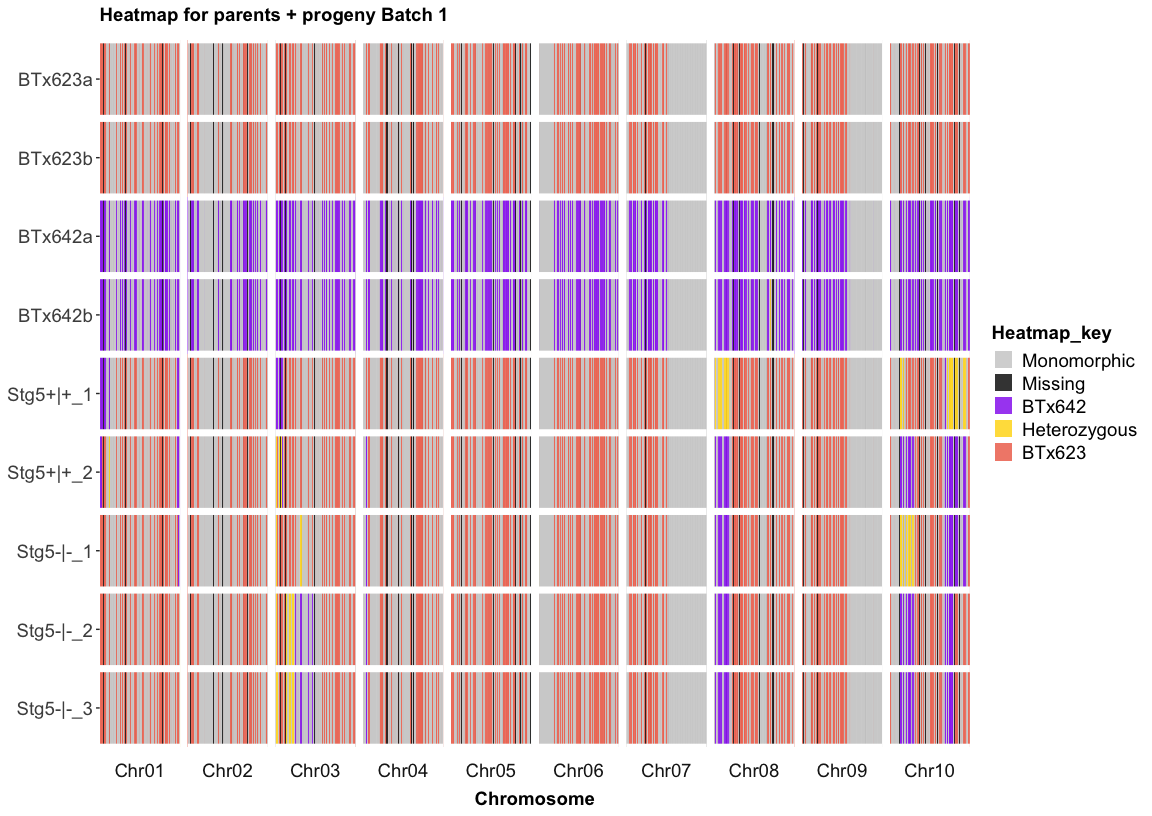
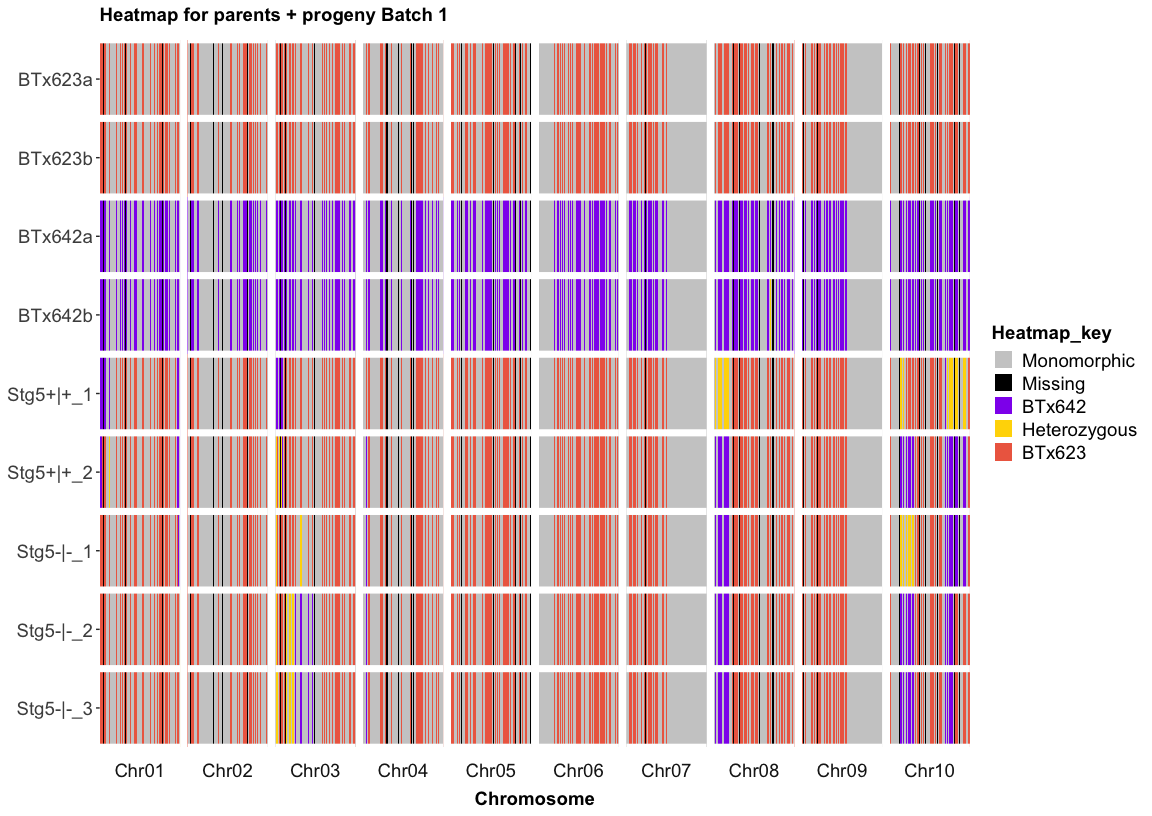
kasp_function updates

Changed region(s): [[0.0625, 0.0306, 0.5938, 0.9191], [0.625, 0.0306, 0.75, 0.9191], [0.7812, 0.0306, 0.875, 0.9191]]

diff --git a/README.md b/README.md
@@ -914,8 +914,8 @@ nucleotides to represent homozygous SNP calls.
 
 To exemplify the steps for creating heatmap, we will use a mid-density
 marker data for three groups of near-isogenic lines (NILs) and their
-parents. The NILs and their parents were genotyped using the Agriplex
-platform. Each NIL group was genotyped using 2421 markers.
+parents (Table 4). The NILs and their parents were genotyped using the
+Agriplex platform. Each NIL group was genotyped using 2421 markers.
 
 The imported data frame has the markers as columns and genotyped samples
 as rows. It comes with some meta data about the samples. Marker names
@@ -1171,9 +1171,9 @@ A
 </table>
 
 To create a heatmap that compares the genetic background of parents and
-NILs across all marker, we need to process the raw Agriplex data into a
-numeric format for plotting. The panGB package has customizable data
-wrangling functions for KASP, Agriplex, and DArTag data.
+NILs across all markers, we need to first process the raw Agriplex data
+into a numeric format. The panGB package has customizable data wrangling
+functions for KASP, Agriplex, and DArTag data.
 
 Since our imported Agriplex data has informative SNP IDs, we can use the
 `parse_marker_ns()` function to generate a map file, which can be passed
@@ -1181,10 +1181,17 @@ to the `proc_kasp()` function to order the SNP markers according to
 their chromosome numbers and positions.
 
 The `kasp_numeric()` function converts the output of the `proc_kasp()`
-function into a numeric format for heatmap plotting.
+function into a numeric format (Table 5). The re-coding to numeric
+format is done as follows:  
+*`Homozygous for Parent 1 allele = 1`.
+*`Homozygous for Parent 2 allele = 0`. *`Heterozygous = 0.5`.
+*`Monomorphic loci = -1`. *`Loci with a suspected genotype error = -2`.
+*`Loci with at least one missing parental or any other genotype = -5`.
 
 The next step would be to melt the numeric output matrix of the
-`kasp_numeric()` function into a tidy format for plotting.
+`kasp_numeric()` function into a long tidy format using the `ggdat()`
+function. This last conversion is necessary to allow us to use the
+`ggplot2` package for heatmap plotting.
 
 ``` r
 
@@ -1753,8 +1760,8 @@ BTx623a
 </tbody>
 </table>
 
-All is now set to generate the heatmap using the `cross_qc_ggplot()`
-function, as shown in the code snippet below:
+All is now set to generate the heatmap (Figure 6) using the
+`cross_qc_ggplot()` function, as shown in the code snippet below:
 
 ``` r
 
@@ -1771,7 +1778,7 @@ cross_qc_ggplot(x = df,
                 group_sz = 5L,
                 pdf = FALSE,
                 legend_title = 'Heatmap_key',
-                alpha = 0.8,
+                alpha = 1,
                 text_size = 14)
 #> $Batch1
 ```
@@ -1786,6 +1793,9 @@ stg5 NIL progenies across all markers.
 
 </div>
 
+The `cross_qc_ggplot()` function is a wrapper for functions in the
+`ggplot2` package.
+
 Users must specify the IDs for the two parents using the `parents`
 argument. In the code snippet above, the recurrent parent is `BTx623`
 and the donor parent for the *stg5* locus is `BTx642`.
@@ -1797,8 +1807,8 @@ Users can set the `pdf = TRUE` argument to save plots as a PDF file in a
 directory outside R.
 
 To test the hypothesis that *stg5* NIL development was effective, we can
-generate a heatmap that zooms into the location of *stg5* on Chromosome
-1, as shown below:.
+generate a heatmap (Figure 7) that zooms into the location of *stg5* on
+Chromosome 1, as shown below:
 
 ``` r
 
@@ -1828,9 +1838,9 @@ stg5_pos <- c(start = 1019896, end = 1613105)
 # Blue = Missing; coral1 = RP; yellow = Het; purple = DP; grey70 = Mono
 col <- c('-1' = 'grey70',
          '-5' = 'blue',
-        '0' = 'purple',
+        '0' = 'purple2',
         '0.5' = 'yellow',
-        '1' = 'coral1')
+        '1' = 'coral2')
 
 labels <- c("Monomorphic", "Missing", "BTx642", "Heterozygous", "BTx623")
 
